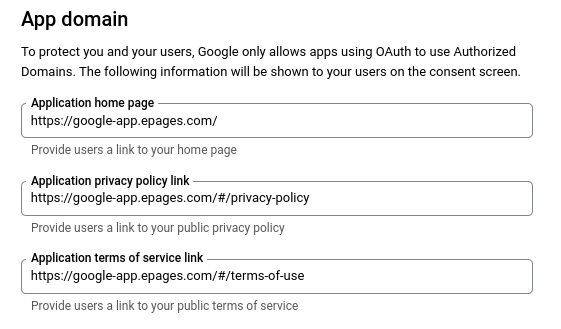
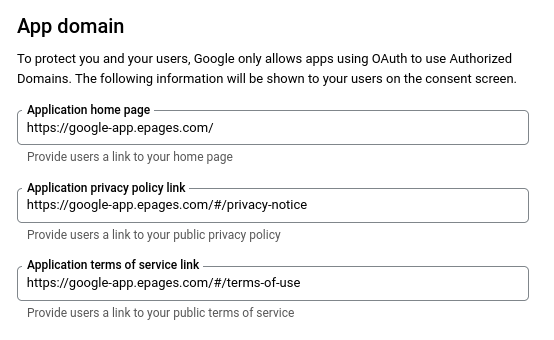
Use correct privacy notice url [skip ci]

diff --git a/README.md b/README.md
@@ -19,7 +19,7 @@ See [support.google.com](https://support.google.com/cloud/answer/9110914#verific
 
 In the OAuth consent screen configuration we need to provide links to the app's privacy policy and the terms of use.
 
-- https://google-app.epages.com/#/privacy-policy
+- https://google-app.epages.com/#/privacy-notice
 - https://google-app.epages.com/#/terms-of-use
 
 ![App domain config](./docs/app-domain-config.png)
